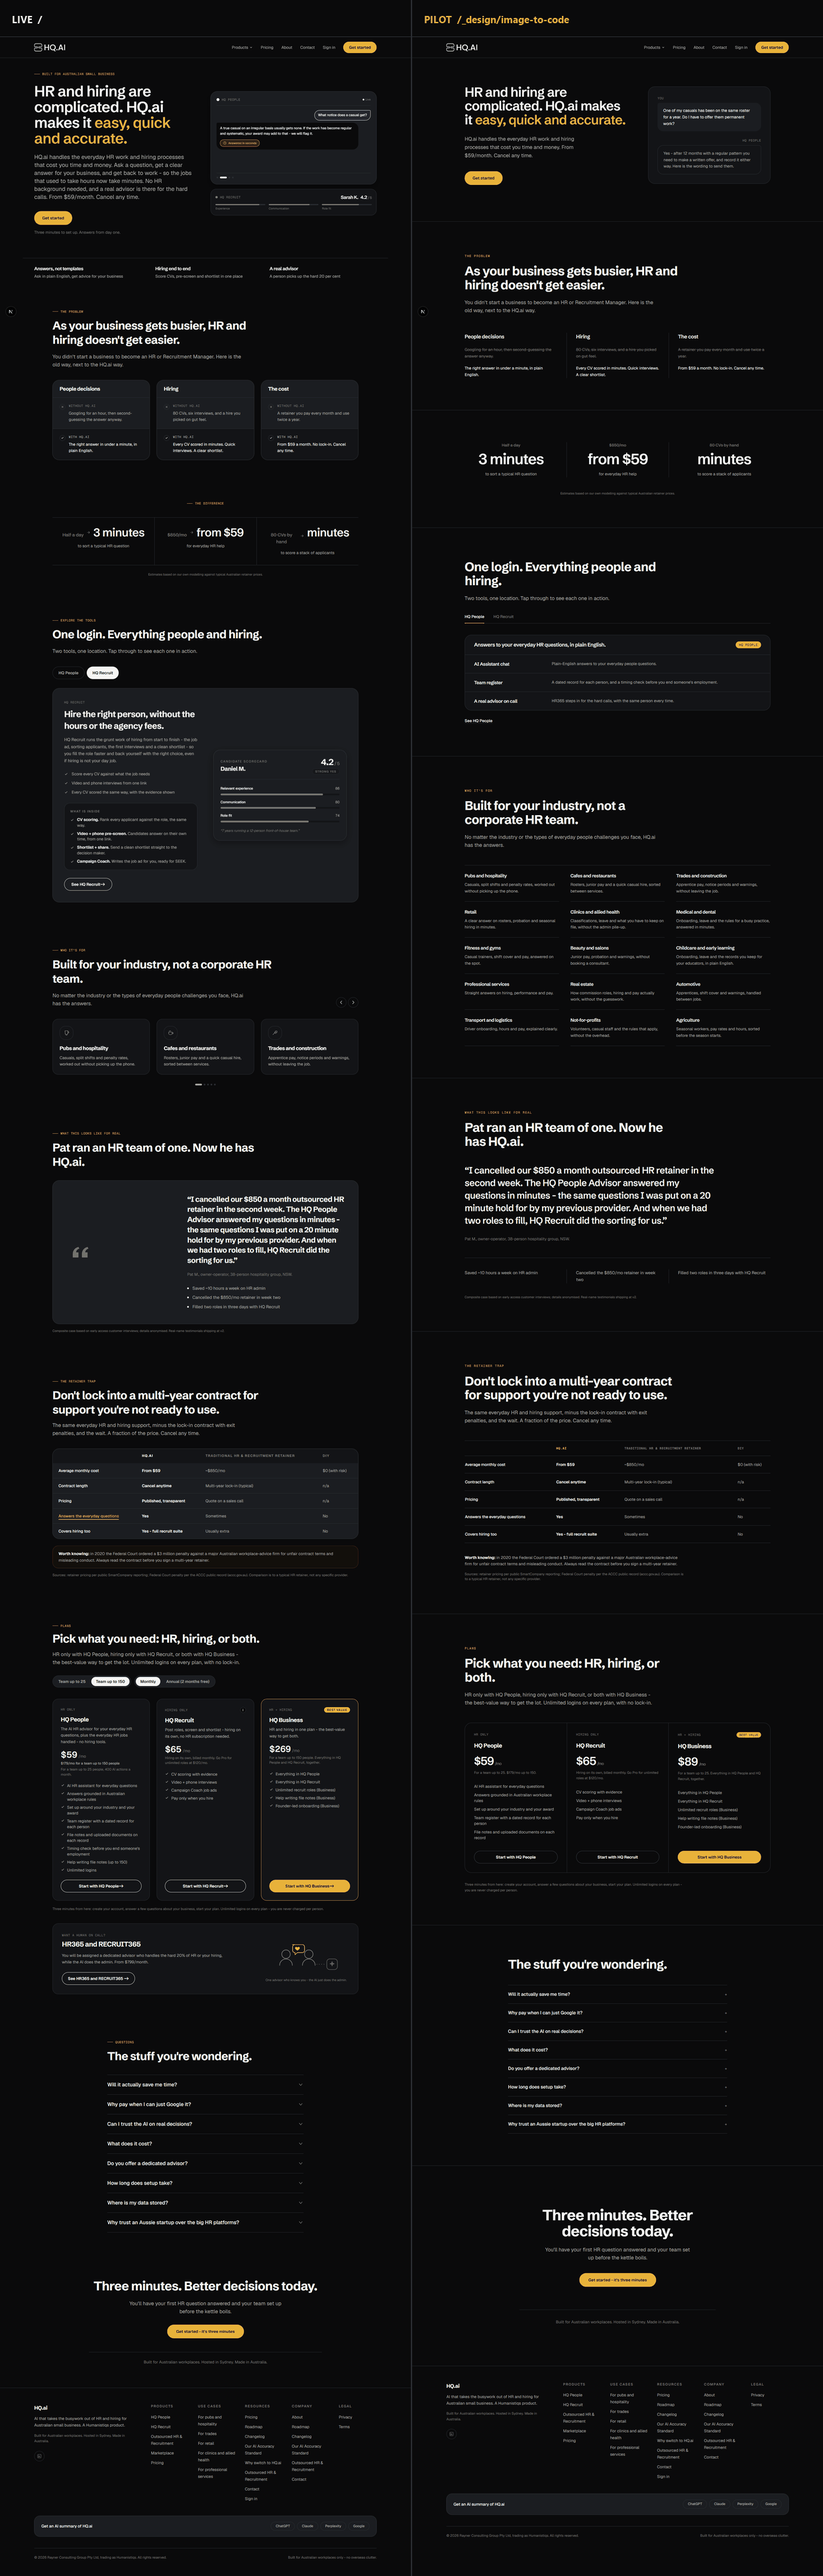
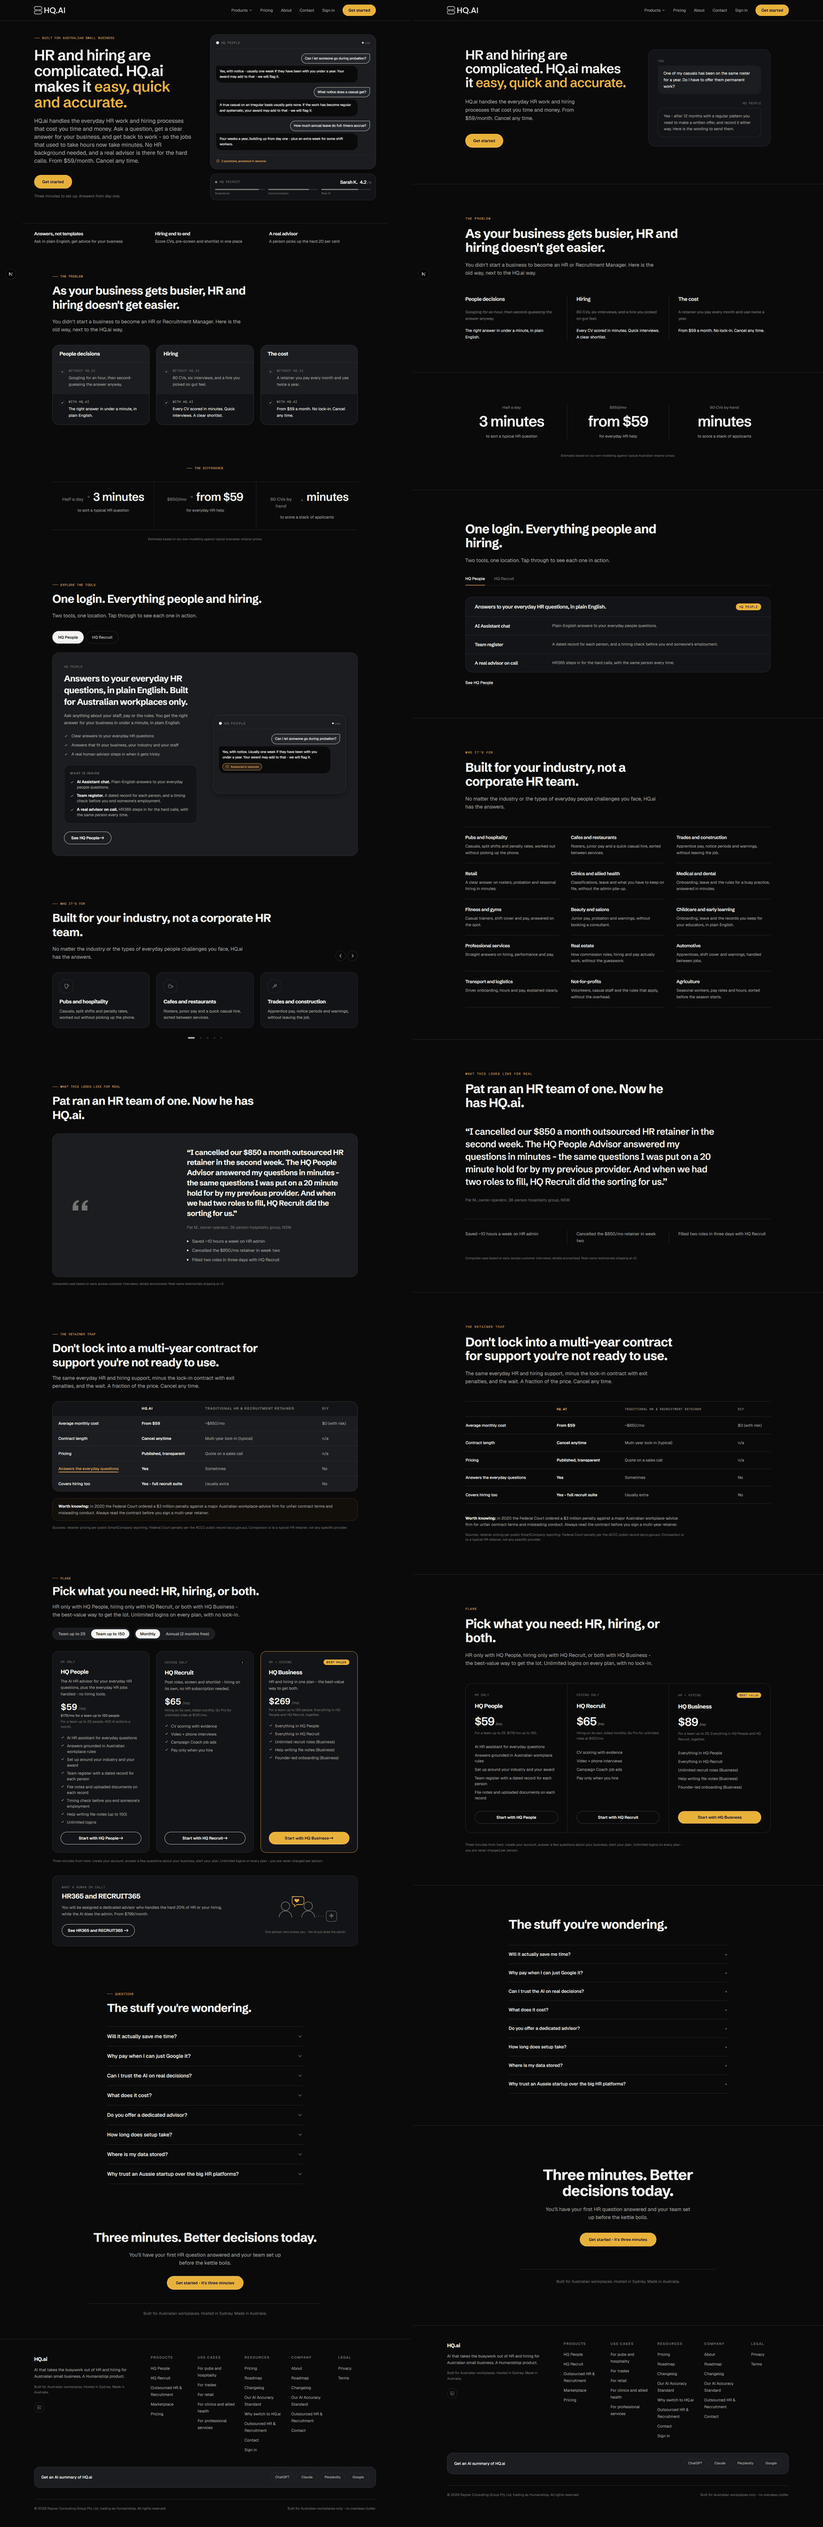
fix(pilot): follow main's ink-on-clay split, recapture against current home
Rebased onto f139192. PR #4 split ink-on-clay out of ink-on-accent because
ink-on-accent is the label for an `accent` fill, and `accent` is not the gold
on every surface - with no data-app scope it resolves to WHITE ON GOLD, 1.9:1.

The pilot's five gold fills still said text-ink-on-accent. Under the marketing
scope that happens to resolve to near-black, so nothing looked wrong, but the
marketing scope is set in an effect: the first paint runs under bare :root,
where it is white. Relabelled all five text-ink-on-clay, which is declared
once in :root and never overridden. Verified in the browser - every gold
control on both pages is rgb(17,17,17) on rgb(232,178,58), 9.8:1.

Recaptured both comparison images, since main also changed the live hero
(full chat transcript, fourth exchange cut) and the old captures showed a page
that no longer exists.

Corrected the README table while re-measuring. The earlier counts used a
childless-leaf test for text blocks and micro-labels, which scored every live
eyebrow as zero - they each wrap a span for the dash rule. Counting on direct
text nodes instead gives 9 of 10 live sections carrying a gold eyebrow, not
the 1 the leaf test reported. Live/pilot now: hero 809px vs 573px, hero words
238 vs 86, page icons 50 vs 0, eyebrow dash rules 9 vs 0.

Also noted honestly that the micro-label delta (23 vs 15) is the weakest
number in the table, not a step change like the others.

diff --git a/app/%5Fdesign/image-to-code/page.tsx b/app/%5Fdesign/image-to-code/page.tsx
@@ -106,7 +106,7 @@ function Hero() {
           <div style={{ animationDelay: '260ms' }} className="hq-hero-rise mt-10">
             <Link
               href="/signup"
-              className="inline-flex h-12 items-center justify-center rounded-full bg-clay px-7 text-sm font-semibold text-ink-on-accent shadow-card transition-colors hover:bg-clay-hover focus-visible:outline focus-visible:outline-2 focus-visible:outline-offset-2 focus-visible:outline-clay"
+              className="inline-flex h-12 items-center justify-center rounded-full bg-clay px-7 text-sm font-semibold text-ink-on-clay shadow-card transition-colors hover:bg-clay-hover focus-visible:outline focus-visible:outline-2 focus-visible:outline-offset-2 focus-visible:outline-clay"
             >
               Get started
             </Link>
@@ -523,7 +523,7 @@ function Pricing() {
                 {p.kicker}
               </p>
               {p.highlight && (
-                <span className="rounded-full bg-clay px-2.5 py-0.5 font-mono text-[10px] uppercase tracking-[0.06em] text-ink-on-accent">
+                <span className="rounded-full bg-clay px-2.5 py-0.5 font-mono text-[10px] uppercase tracking-[0.06em] text-ink-on-clay">
                   Best value
                 </span>
               )}
@@ -548,7 +548,7 @@ function Pricing() {
                 className={[
                   'inline-flex h-11 w-full items-center justify-center rounded-full px-6 text-sm font-semibold transition-colors focus-visible:outline focus-visible:outline-2 focus-visible:outline-offset-2 focus-visible:outline-clay',
                   p.highlight
-                    ? 'bg-clay text-ink-on-accent shadow-card hover:bg-clay-hover'
+                    ? 'bg-clay text-ink-on-clay shadow-card hover:bg-clay-hover'
                     : 'border border-border-strong text-ink hover:border-ink-muted',
                 ].join(' ')}
               >
@@ -665,7 +665,7 @@ function ClosingCta() {
         <div className="mt-10">
           <Link
             href="/signup"
-            className="inline-flex h-12 items-center justify-center rounded-full bg-clay px-8 text-sm font-semibold text-ink-on-accent shadow-card transition-colors hover:bg-clay-hover focus-visible:outline focus-visible:outline-2 focus-visible:outline-offset-2 focus-visible:outline-clay"
+            className="inline-flex h-12 items-center justify-center rounded-full bg-clay px-8 text-sm font-semibold text-ink-on-clay shadow-card transition-colors hover:bg-clay-hover focus-visible:outline focus-visible:outline-2 focus-visible:outline-offset-2 focus-visible:outline-clay"
           >
             Get started - it&apos;s three minutes
           </Link>

diff --git a/app/%5Fdesign/image-to-code/ToolPanels.tsx b/app/%5Fdesign/image-to-code/ToolPanels.tsx
@@ -97,7 +97,7 @@ export default function ToolPanels() {
               <p className="max-w-xl font-display text-lg font-semibold tracking-tight text-ink">
                 {t.title}
               </p>
-              <span className="shrink-0 rounded-full bg-clay px-3 py-1 font-mono text-[11px] uppercase tracking-[0.06em] text-ink-on-accent">
+              <span className="shrink-0 rounded-full bg-clay px-3 py-1 font-mono text-[11px] uppercase tracking-[0.06em] text-ink-on-clay">
                 {t.tag}
               </span>
             </div>

diff --git a/docs/design-pilots/image-to-code/README.md b/docs/design-pilots/image-to-code/README.md
@@ -18,7 +18,9 @@ The opening screen on each, live left, pilot right:
 - `home-full-live-vs-pilot.png` - both pages end to end
 
 Both captured in headless Chrome at 1440 wide, in one session, with the hero
-entrance and the `data-app` flip allowed to settle first.
+entrance and the `data-app` flip allowed to settle first. Recaptured after the
+branch was rebased onto `main` at `f139192`, so the live side shows the current
+hero (full chat transcript, fourth exchange cut) rather than the older one.
 
 ## Why this exists
 
@@ -56,21 +58,25 @@ from `lib/pricing-config.ts`.
 
 ## What changed
 
-Measured in the browser at 1440, both pages, same header and same tokens.
+Measured in the browser at 1440, both pages, same header and same tokens, in the
+same run. An element counts as a text block or a micro-label on its own direct
+text nodes, not on being a childless leaf: every live eyebrow wraps a `<span>`
+dash rule, so a leaf-only test silently scores all of them as zero.
 
 | | live `/` | pilot |
 |---|---:|---:|
-| hero height | 800px | 573px |
+| hero height | 809px | 573px |
 | hero headline lines | 4 | 3 |
-| **words in the hero** | **253** | **72** |
-| discrete text blocks in the hero | 20 | 5 |
-| rounded containers in the hero | 10 | 3 |
+| **words in the hero** | **238** | **86** |
+| discrete text blocks in the hero | 27 | 7 |
+| rounded containers in the hero | 15 | 3 |
 | CTAs in the hero | 1 | 1 |
-| **SVG icons on the whole page** | **53** | **0** |
-| mono uppercase micro-labels | 20 | 10 |
+| **SVG icons on the whole page** | **50** | **0** |
+| mono uppercase micro-labels | 23 | 15 |
 | sections carrying a gold eyebrow | 9 of 10 | 5 of 10 |
+| those eyebrows with a leading gold dash rule | 9 | 0 |
 | sections | 10 | 10 |
-| full page height | 8898px | 8822px |
+| full page height | 8870px | 8822px |
 
 Section by section:
 
@@ -81,15 +87,21 @@ Section by section:
 - **Problem.** Three bordered, filled, shadowed cards - each with an inner
   header row and two circular icon badges - become three hairline columns.
 - **Industries.** Fifteen bordered cards with fifteen bespoke SVG icons behind a
-  carousel become fifteen plain hairline text entries, all visible at once.
+  carousel become the same fifteen as plain hairline text entries, all visible
+  at once.
 - **Customer story.** Loses its card and its decorative quote-mark glyph; the
   type carries it instead.
 - **Pricing.** Three separate cards become one container with hairline columns.
 - **Eyebrows.** Drop from 9 of 10 sections to 5, and lose the leading gold dash
-  rule.
+  rule entirely.
 
-The total height barely moves (8898px against 8822px) on the same ten sections
+The total height barely moves (8870px against 8822px) on the same ten sections
 with the same copy. The content did not shrink. The chrome did.
+
+The micro-label count is the weakest of these numbers: 23 against 15 is a real
+reduction but not the step change the others are, because the pilot still leans
+on mono eyebrows to label its hairline columns where the live page uses a card
+header instead.
 
 ## What this is not
 
@@ -115,7 +127,7 @@ through the `puppeteer-core` already in the dependency tree: load each of `/` an
 `document.documentElement.dataset.app === 'marketing'`, scroll to the bottom and
 back to force the lazy sections to render, then take a `fullPage` screenshot.
 Stitch the pair side by side and quantise to a 256-colour palette - lossless to
-the eye on a flat dark UI, and it cuts the pair from 1.7MB to 630KB.
+the eye on a flat dark UI, and it keeps the full-page pair under 500KB.
 
 Note that `/` and every other page send `X-Frame-Options: DENY` from
 `next.config.js`, so a live side-by-side in two iframes will not work, even
@@ -133,3 +145,11 @@ same-origin. Capture to images instead rather than weakening that header.
    alone: remove the junction with `cmd /c rmdir node_modules` - which removes
    the link only, not the target, so do not let npm delete it and do not
    `rm -rf` it - then run `npm ci`.
+
+## Keeping it current
+
+The pilot reads the same tokens as the live page, so a token change on `main`
+lands here too. The rebase onto `f139192` picked up PR #4, which split
+`ink-on-clay` out of `ink-on-accent`; the pilot's five gold fills were relabelled
+`text-ink-on-clay` to match. Verified in the browser: every gold control on both
+pages resolves to `rgb(17, 17, 17)` on `rgb(232, 178, 58)`, 9.8:1.
